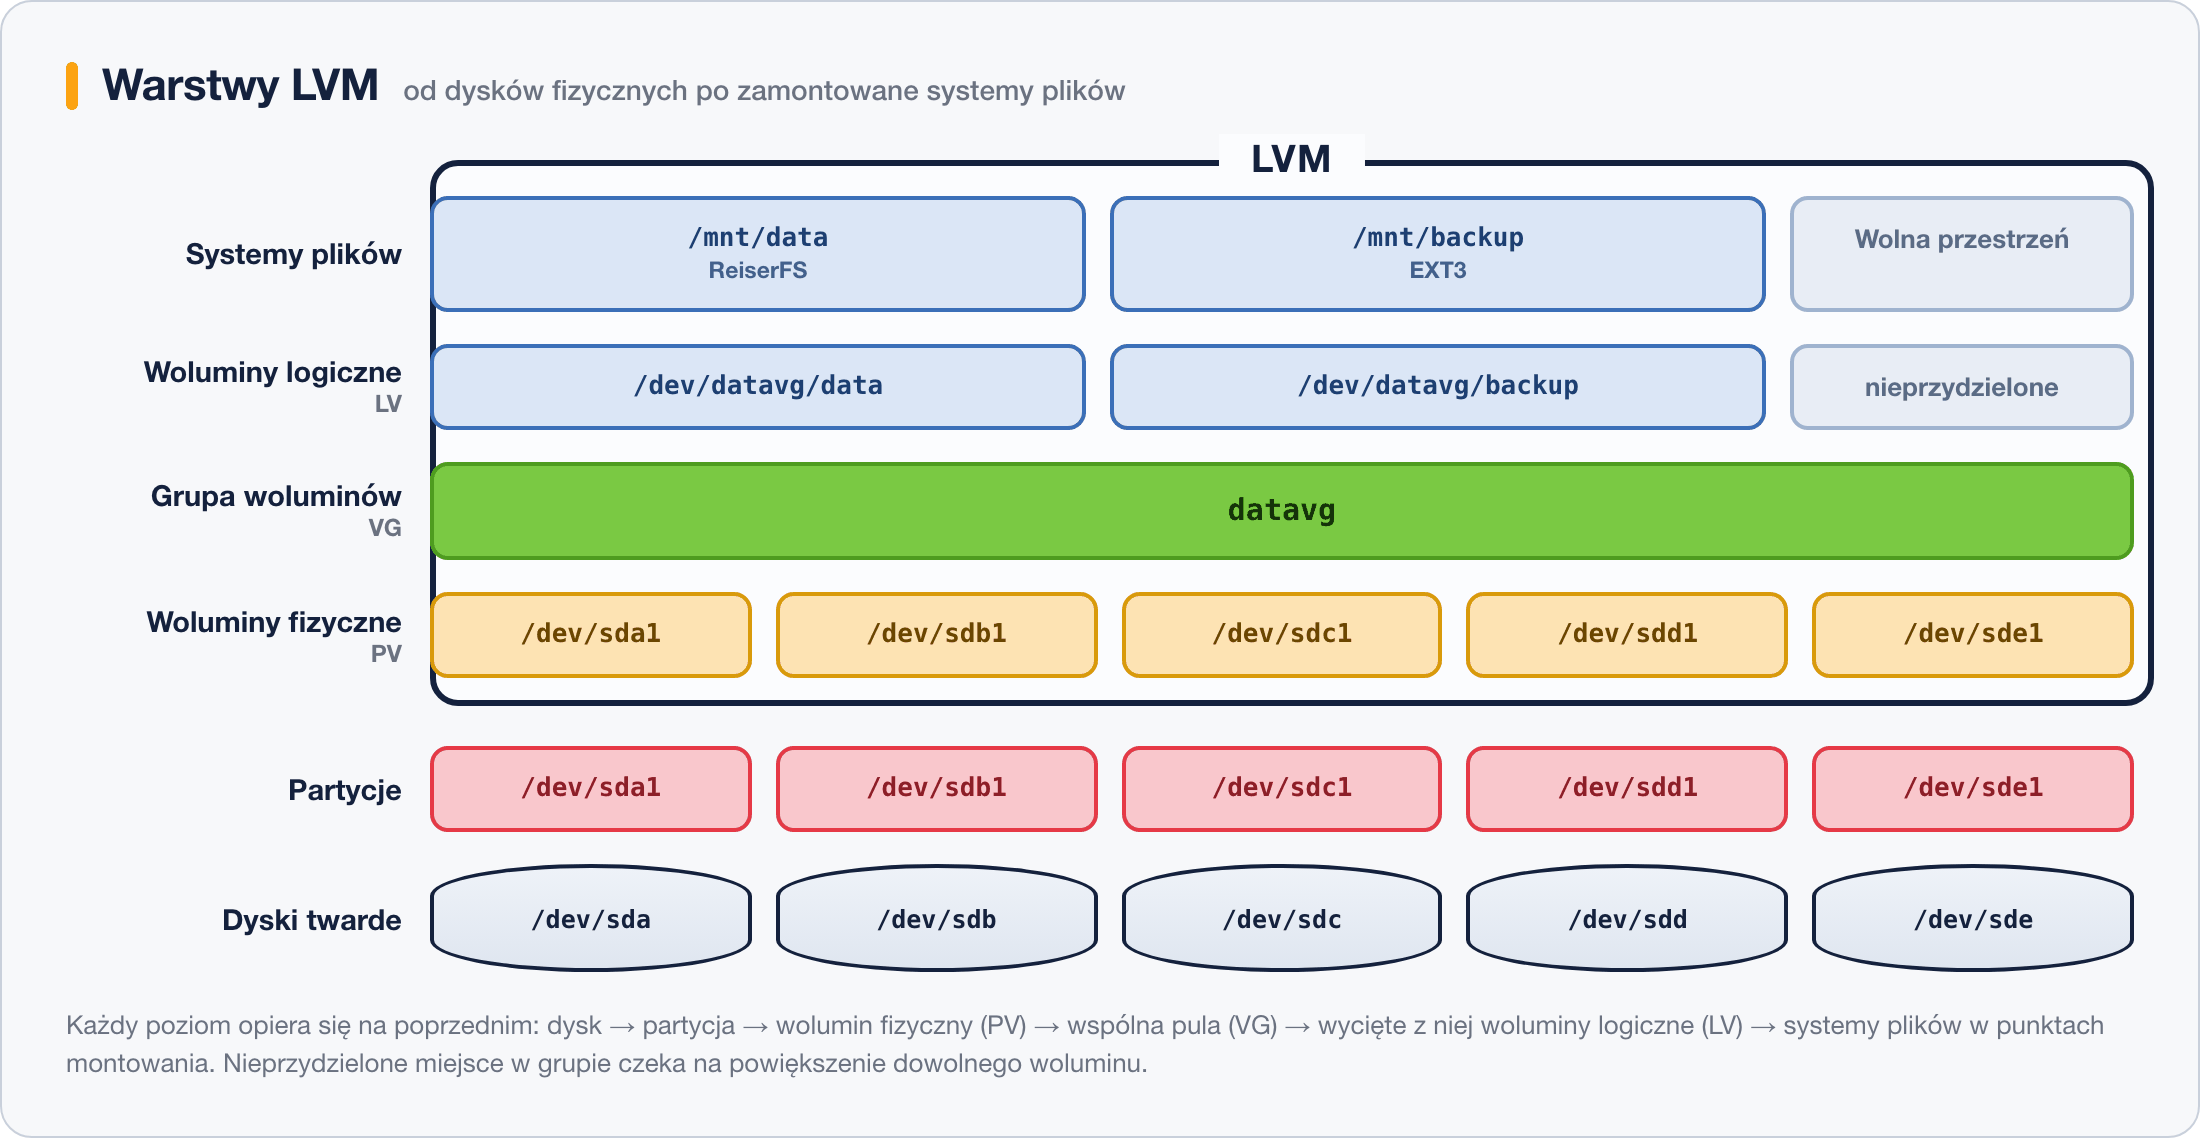
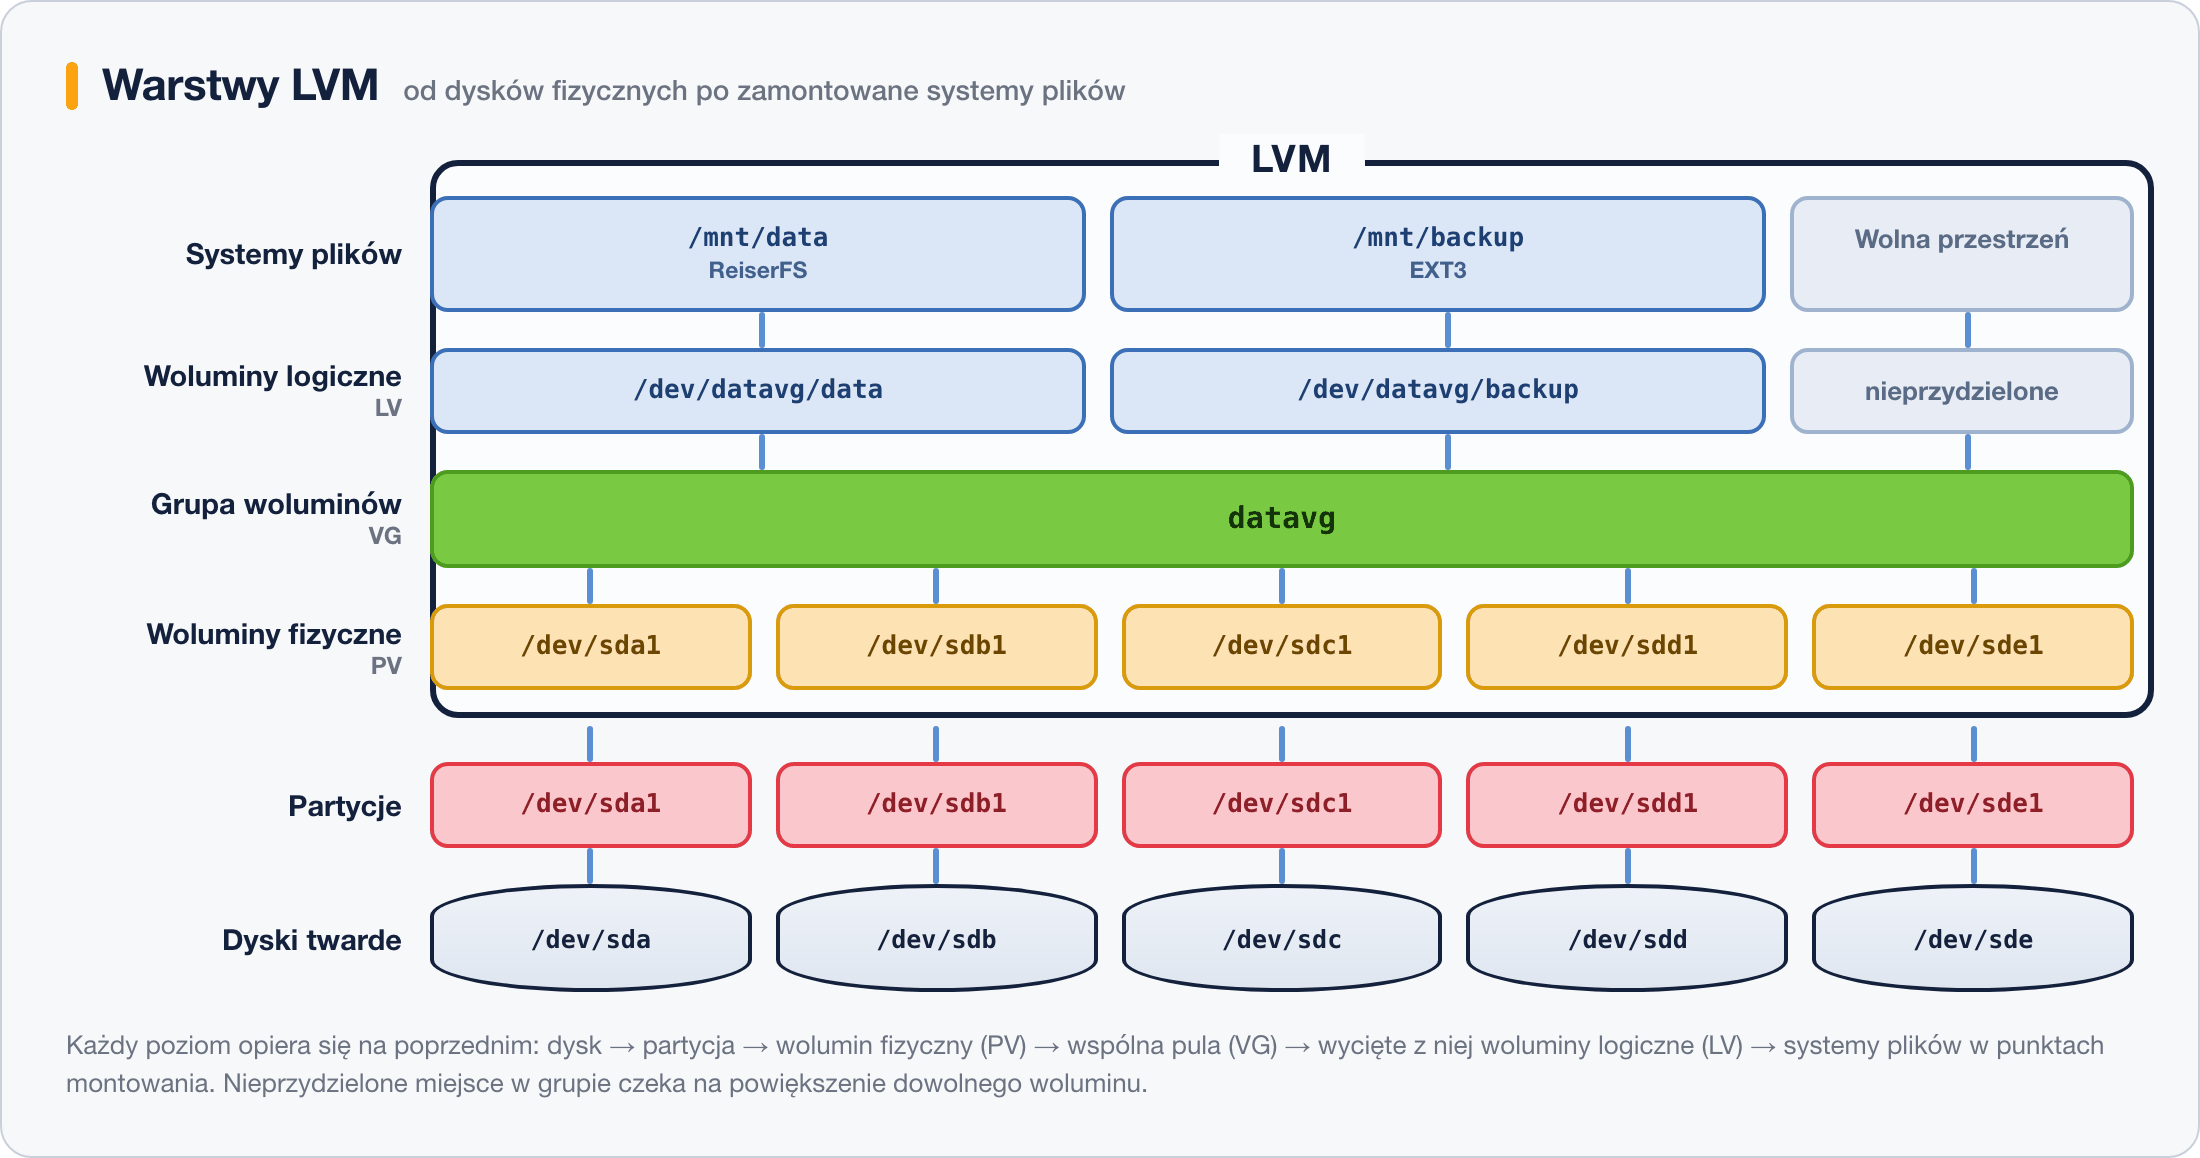
LVM: łączniki między warstwami schematu
Pionowe linie łączące kolejne poziomy, tak jak na oryginalnym rysunku:
dysk → partycja → PV → grupa woluminów → LV → system plików.

diff --git a/grafiki/zrodla/3-3-lvm-warstwy-pelne.html b/grafiki/zrodla/3-3-lvm-warstwy-pelne.html
@@ -1,7 +1,7 @@
 <!doctype html>
 <html lang="pl"><head><meta charset="utf-8"><link rel="stylesheet" href="_styl.css">
 <style>
-  .blok { display: grid; grid-template-columns: 168px 1fr; column-gap: 14px; row-gap: 16px; align-items: center; }
+  .blok { display: grid; grid-template-columns: 168px 1fr; column-gap: 14px; row-gap: 0; align-items: center; }
   .blok.lvm { position: relative; padding: 22px 0 18px; }
   .ramka-lvm {
     position: absolute; left: 182px; right: -10px; top: 4px; bottom: 4px;
@@ -31,6 +31,13 @@
     display: flex; align-items: center; justify-content: center;
     font-family: var(--mono); font-size: 12.5px; font-weight: 700; color: var(--granat);
   }
+  /* pionowe łączniki między warstwami */
+  .lacz { grid-column: 2; display: flex; gap: 12px; height: 18px; position: relative; z-index: 1; }
+  .lacz i { flex: 1 1 0; position: relative; }
+  .lacz i::after {
+    content: ""; position: absolute; left: 50%; top: 0; bottom: 0; width: 3px;
+    background: #5b8fd4; transform: translateX(-50%); border-radius: 2px;
+  }
 </style>
 </head>
 <body>
@@ -47,6 +54,8 @@
       <div class="kafel wolne" style="flex:1 1 0">Wolna przestrzeń</div>
     </div>
 
+    <div class="lacz"><i style="flex:2 1 0"></i><i style="flex:2 1 0"></i><i style="flex:1 1 0"></i></div>
+
     <div class="etyk">Woluminy logiczne<small>LV</small></div>
     <div class="rzad">
       <div class="kafel lv" style="flex:2 1 0">/dev/datavg/data</div>
@@ -54,8 +63,12 @@
       <div class="kafel wolne" style="flex:1 1 0">nieprzydzielone</div>
     </div>
 
+    <div class="lacz"><i style="flex:2 1 0"></i><i style="flex:2 1 0"></i><i style="flex:1 1 0"></i></div>
+
     <div class="etyk">Grupa woluminów<small>VG</small></div>
     <div class="rzad"><div class="kafel vg">datavg</div></div>
+
+    <div class="lacz"><i></i><i></i><i></i><i></i><i></i></div>
 
     <div class="etyk">Woluminy fizyczne<small>PV</small></div>
     <div class="rzad">
@@ -67,9 +80,10 @@
     </div>
   </div>
 
-  <div class="blok" style="margin-top:16px">
-    <div class="etyk">Partycje</div>
-    <div class="rzad">
+  <div class="blok">
+    <div class="etyk" style="grid-row:2">Partycje</div>
+    <div class="lacz" style="grid-row:1"><i></i><i></i><i></i><i></i><i></i></div>
+    <div class="rzad" style="grid-row:2">
       <div class="kafel part">/dev/sda1</div>
       <div class="kafel part">/dev/sdb1</div>
       <div class="kafel part">/dev/sdc1</div>
@@ -77,8 +91,10 @@
       <div class="kafel part">/dev/sde1</div>
     </div>
 
-    <div class="etyk">Dyski twarde</div>
-    <div class="rzad">
+    <div class="lacz" style="grid-row:3"><i></i><i></i><i></i><i></i><i></i></div>
+
+    <div class="etyk" style="grid-row:4">Dyski twarde</div>
+    <div class="rzad" style="grid-row:4">
       <div class="naped"><div class="walec">/dev/sda</div></div>
       <div class="naped"><div class="walec">/dev/sdb</div></div>
       <div class="naped"><div class="walec">/dev/sdc</div></div>
